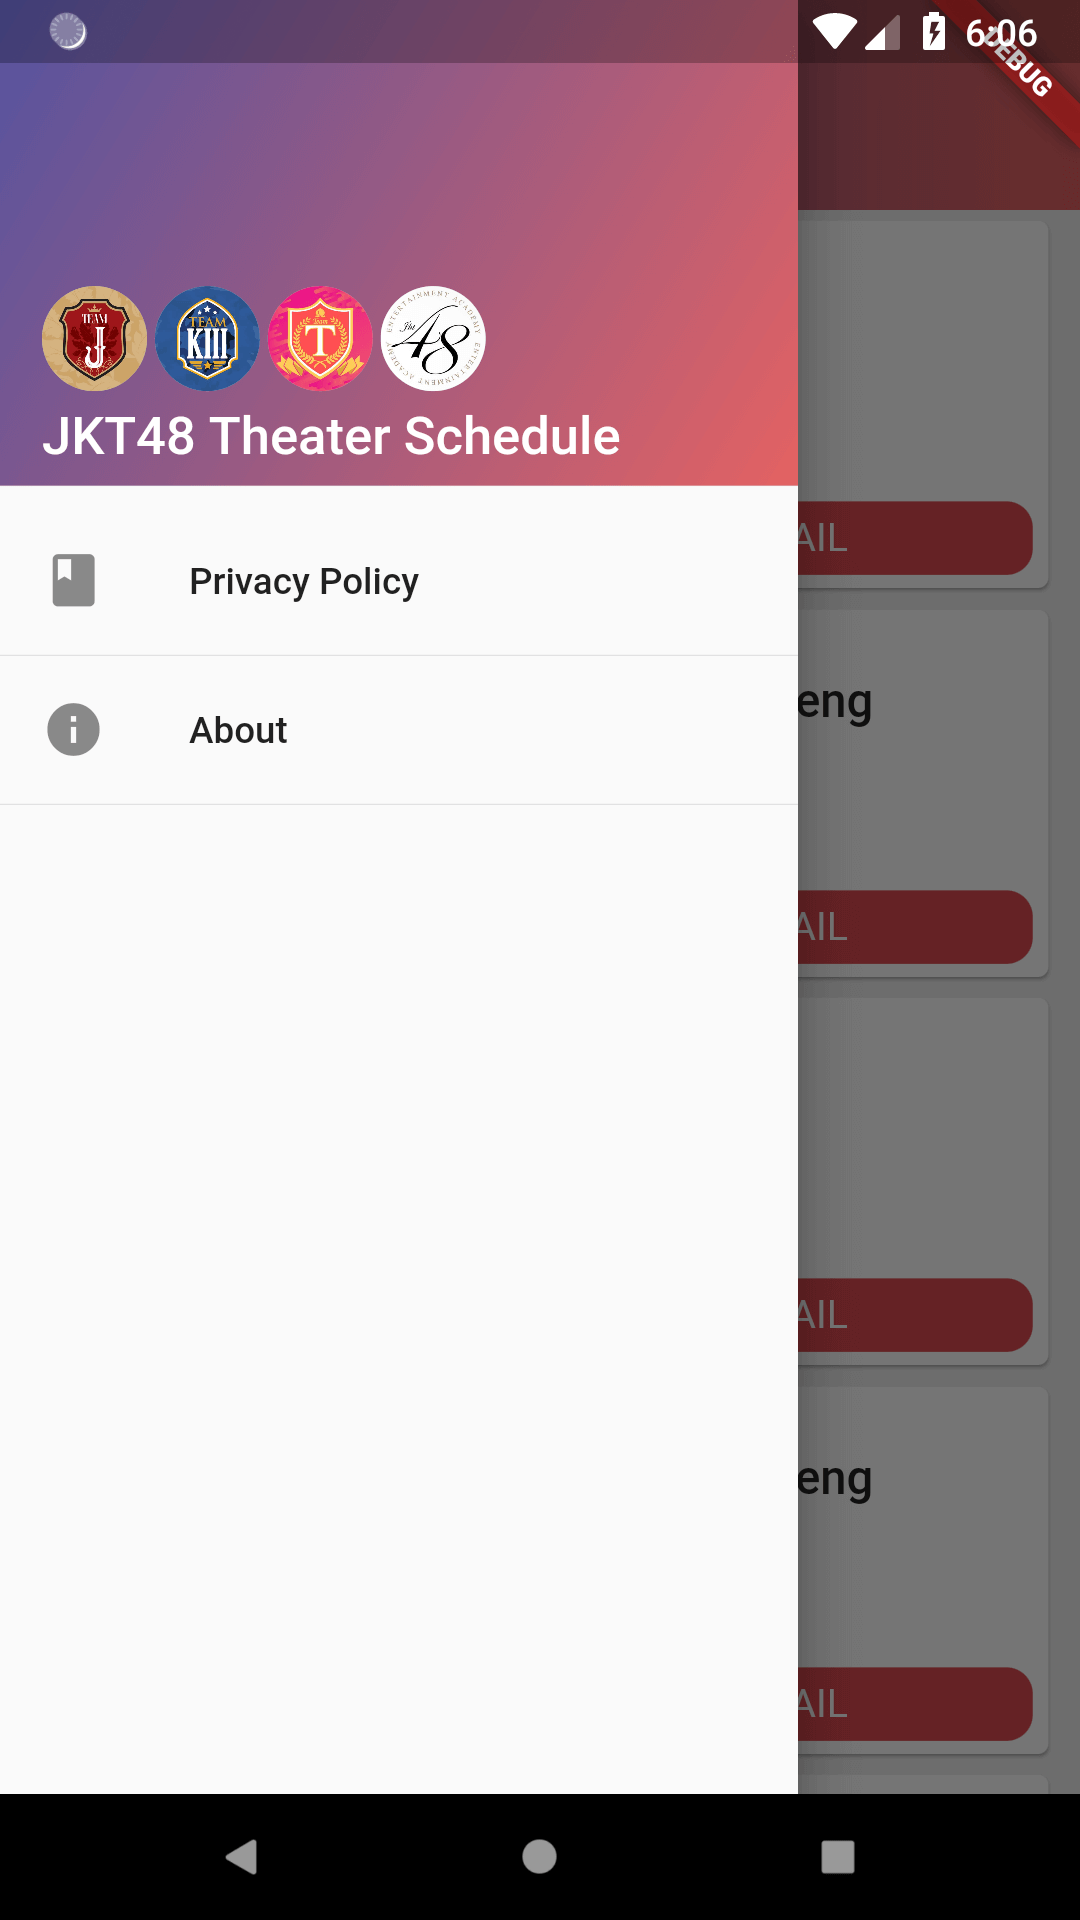
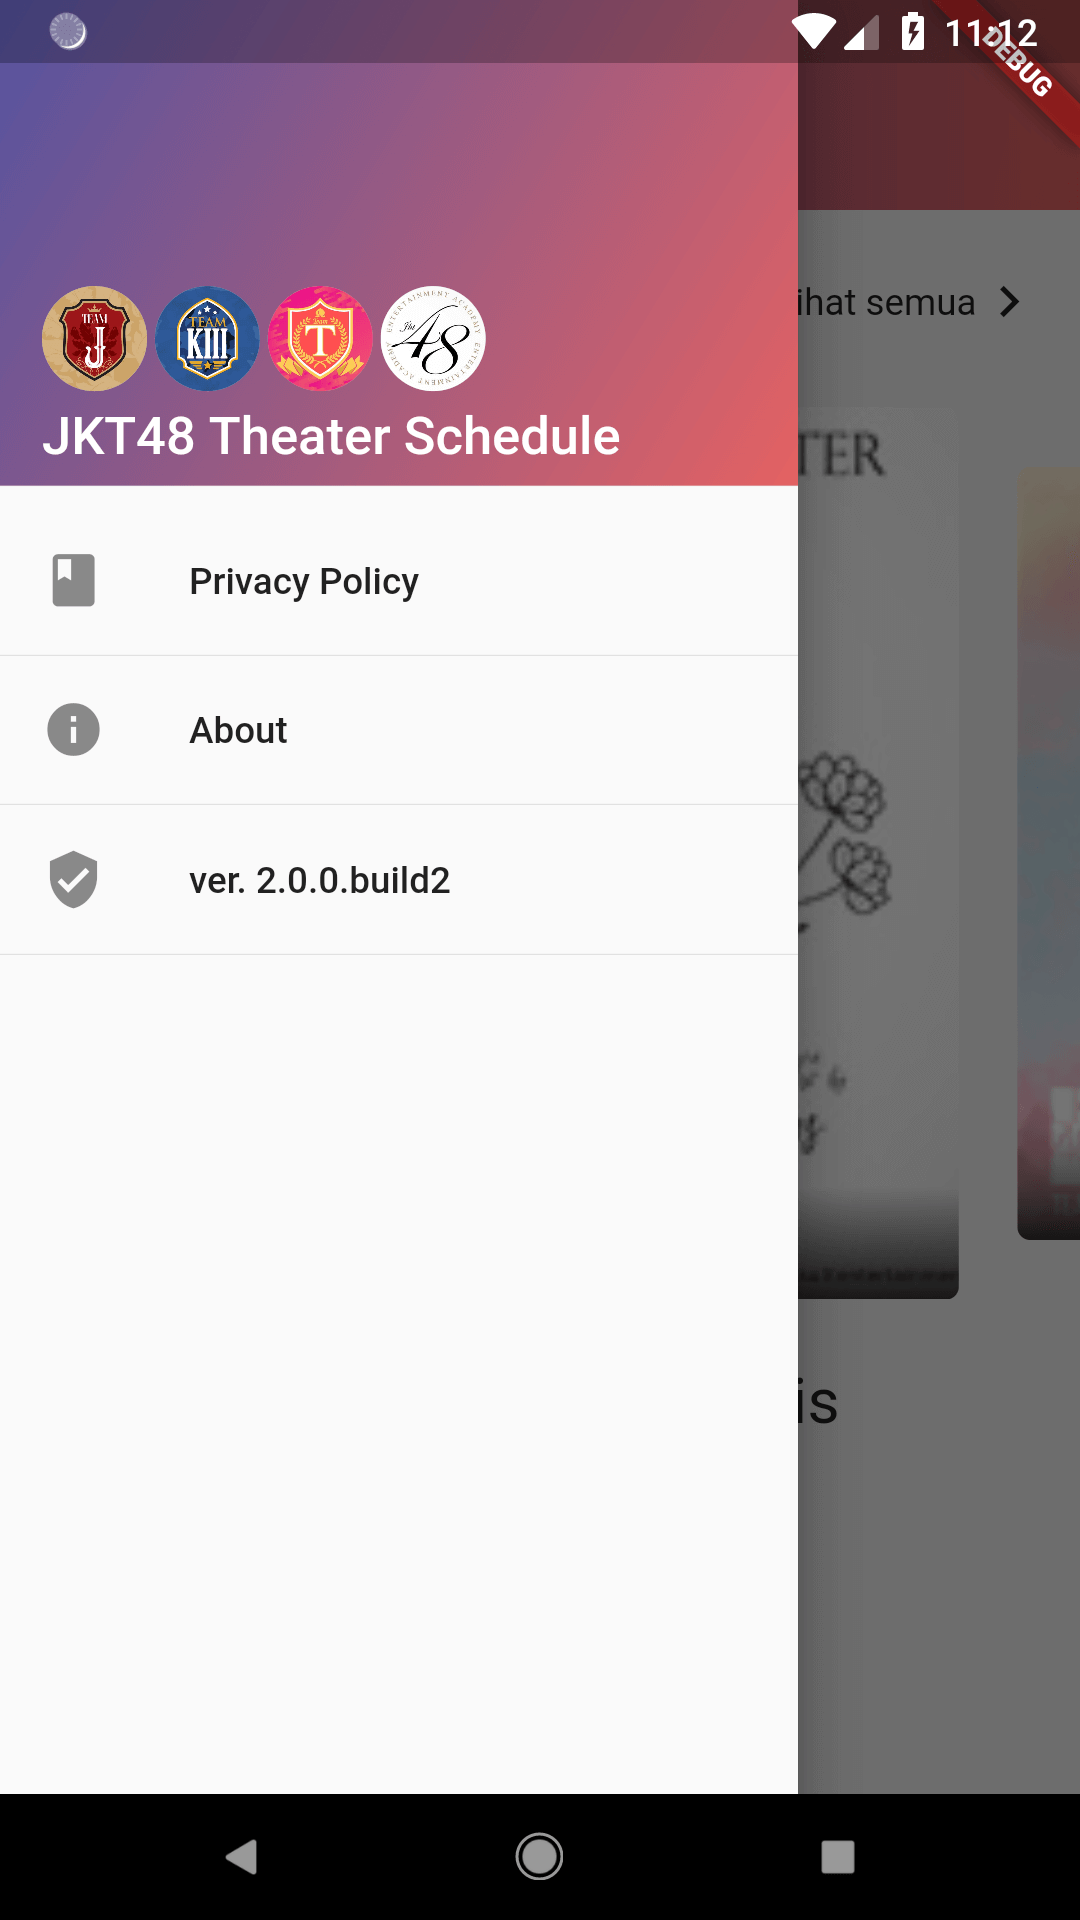
release 2.0.0

diff --git a/README.md b/README.md
@@ -5,12 +5,23 @@ JKT48 Theater Schedule ```urya oi urya oi```
 [<img src="https://play.google.com/intl/en_us/badges/images/generic/en_badge_web_generic.png" height="50">](https://play.google.com/store/apps/details?id=com.fariswdev.jkt48schedule "JKT48 Theater Schedule on Playstore")
 
 ## Schedule Checker
-<img src="https://raw.githubusercontent.com/fariswd/jkt48schedule/master/ss1.png" height="300"><img src="https://raw.githubusercontent.com/fariswd/jkt48schedule/master/ss2.png" height="300"><img src="https://raw.githubusercontent.com/fariswd/jkt48schedule/master/ss3.png" height="300"><img src="https://raw.githubusercontent.com/fariswd/jkt48schedule/master/ss4.png" height="300"><img src="https://raw.githubusercontent.com/fariswd/jkt48schedule/master/ss5.png" height="300"><img src="https://raw.githubusercontent.com/fariswd/jkt48schedule/master/ss6.png" height="300"><img src="https://raw.githubusercontent.com/fariswd/jkt48schedule/master/ss7.png" height="300">
+<img src="https://raw.githubusercontent.com/fariswd/jkt48schedule/master/ss0.png" height="300"><img src="https://raw.githubusercontent.com/fariswd/jkt48schedule/master/ss1.png" height="300"><img src="https://raw.githubusercontent.com/fariswd/jkt48schedule/master/ss2.png" height="300"><img src="https://raw.githubusercontent.com/fariswd/jkt48schedule/master/ss3.png" height="300"><img src="https://raw.githubusercontent.com/fariswd/jkt48schedule/master/ss4.png" height="300"><img src="https://raw.githubusercontent.com/fariswd/jkt48schedule/master/ss5.png" height="300"><img src="https://raw.githubusercontent.com/fariswd/jkt48schedule/master/ss6.png" height="300"><img src="https://raw.githubusercontent.com/fariswd/jkt48schedule/master/ss7.png" height="300">
 
 ## Privacy Policy
 ```
 https://sites.google.com/view/privacy-policy-jkt48-schedule/
 ```
+
+## Whats New
+### V2.0.0 build 2
+- New Carousel on Homescreen
+- Member Pages
+- Filter Show
+- Add Romansa Sang Gadis Show
+- Member List fix
+
+### V1.0.0 build 1
+- Released
 
 fariswd  
 2019
